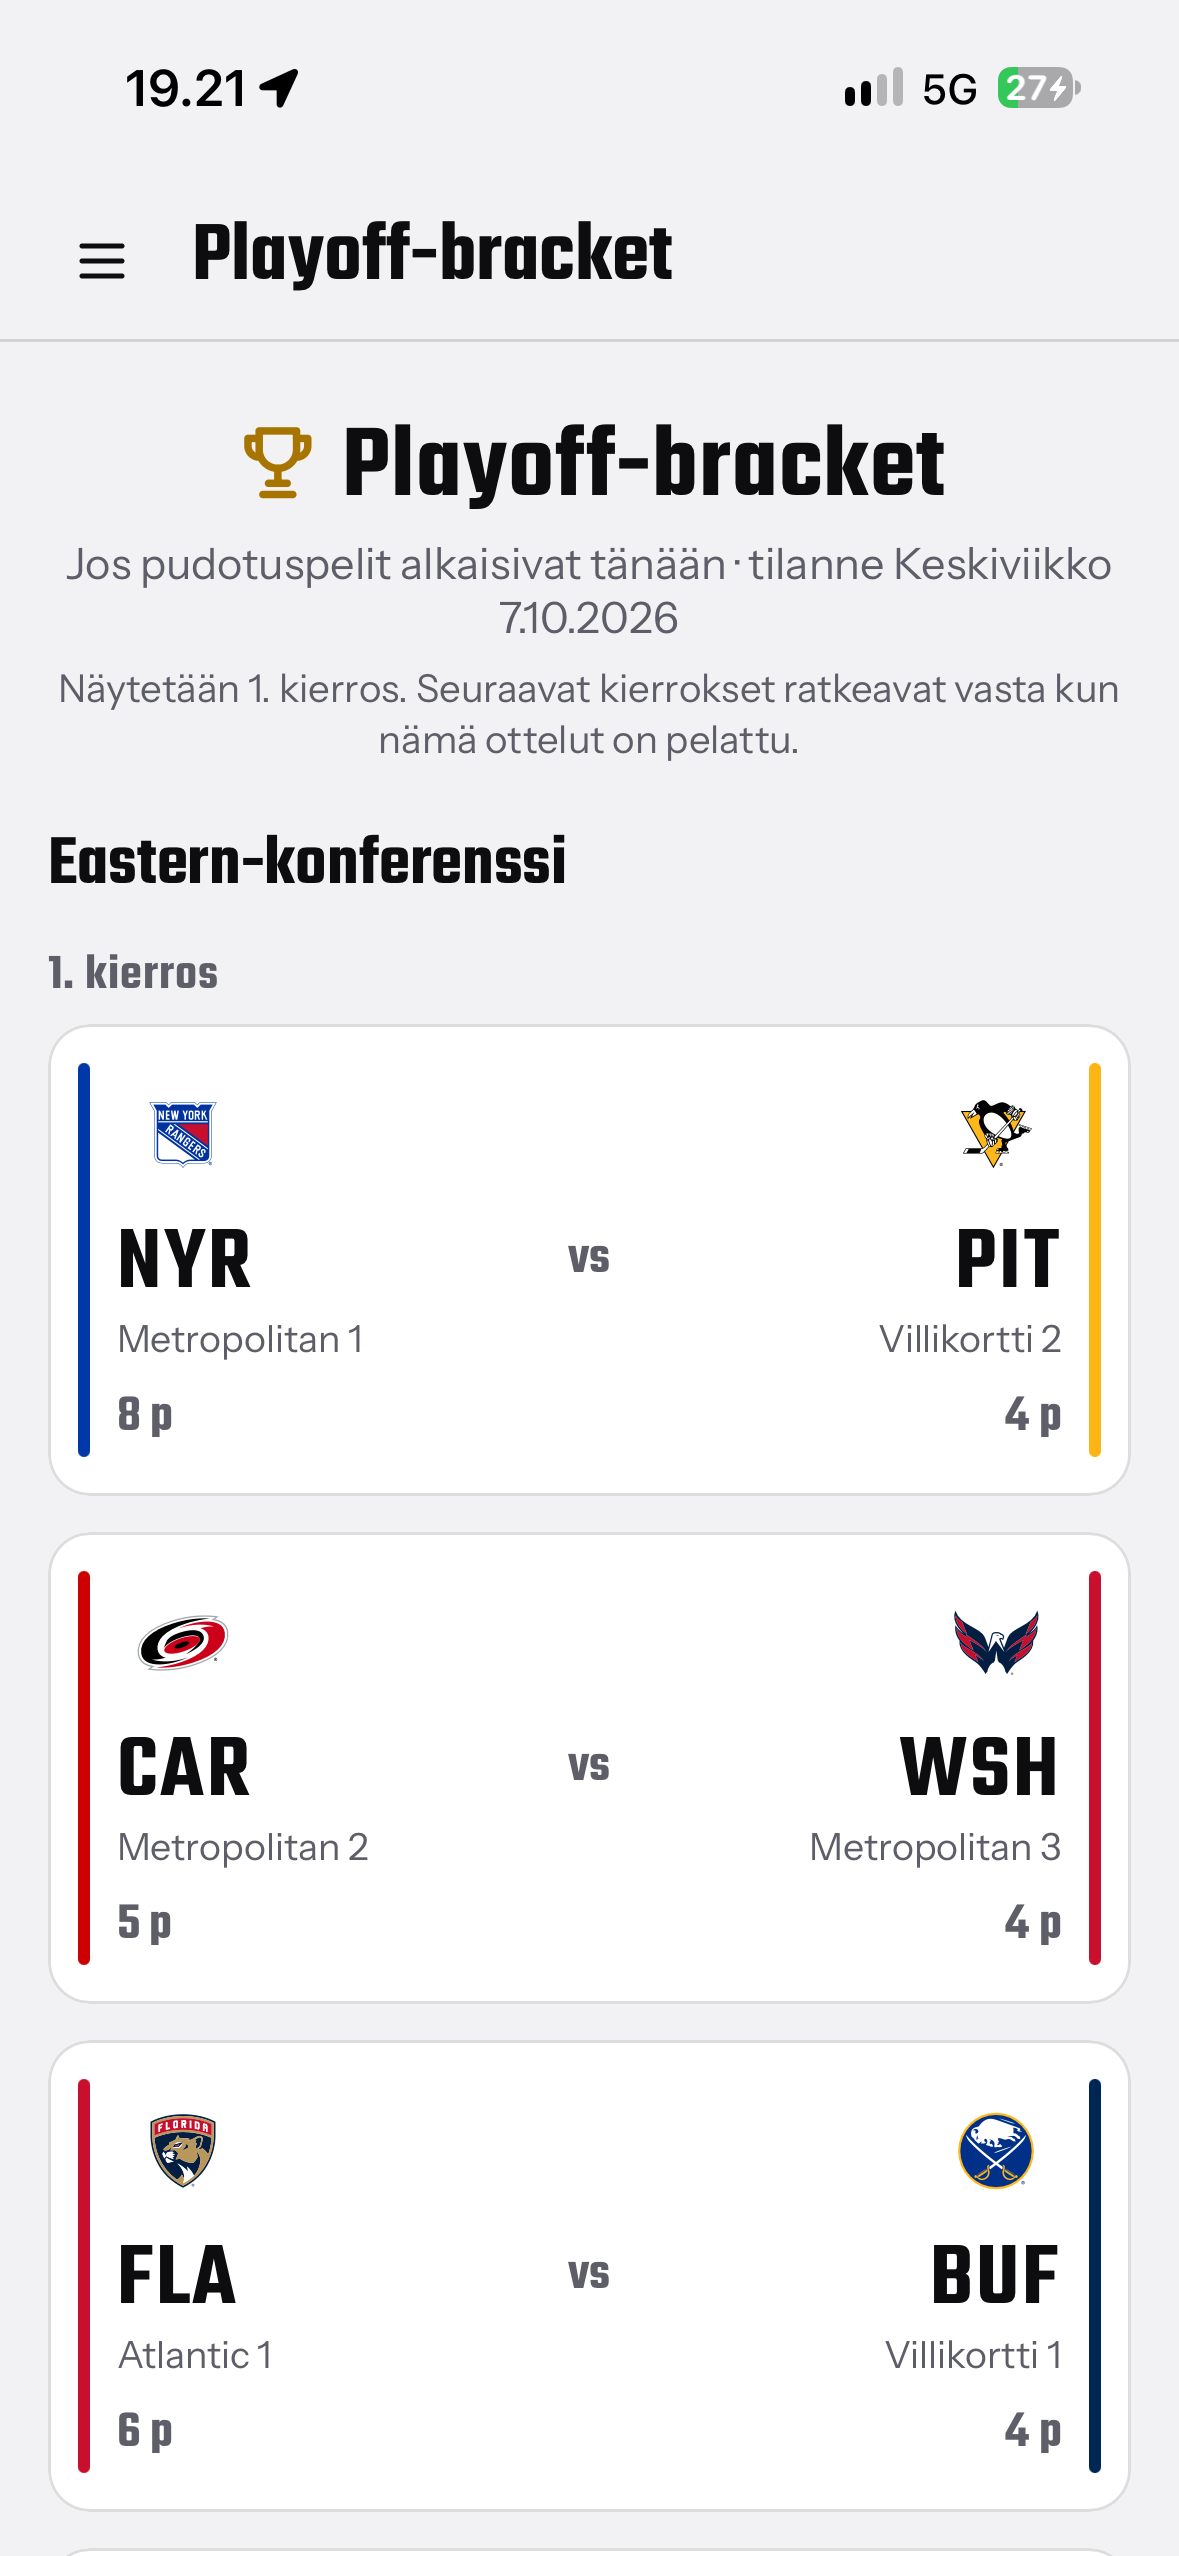
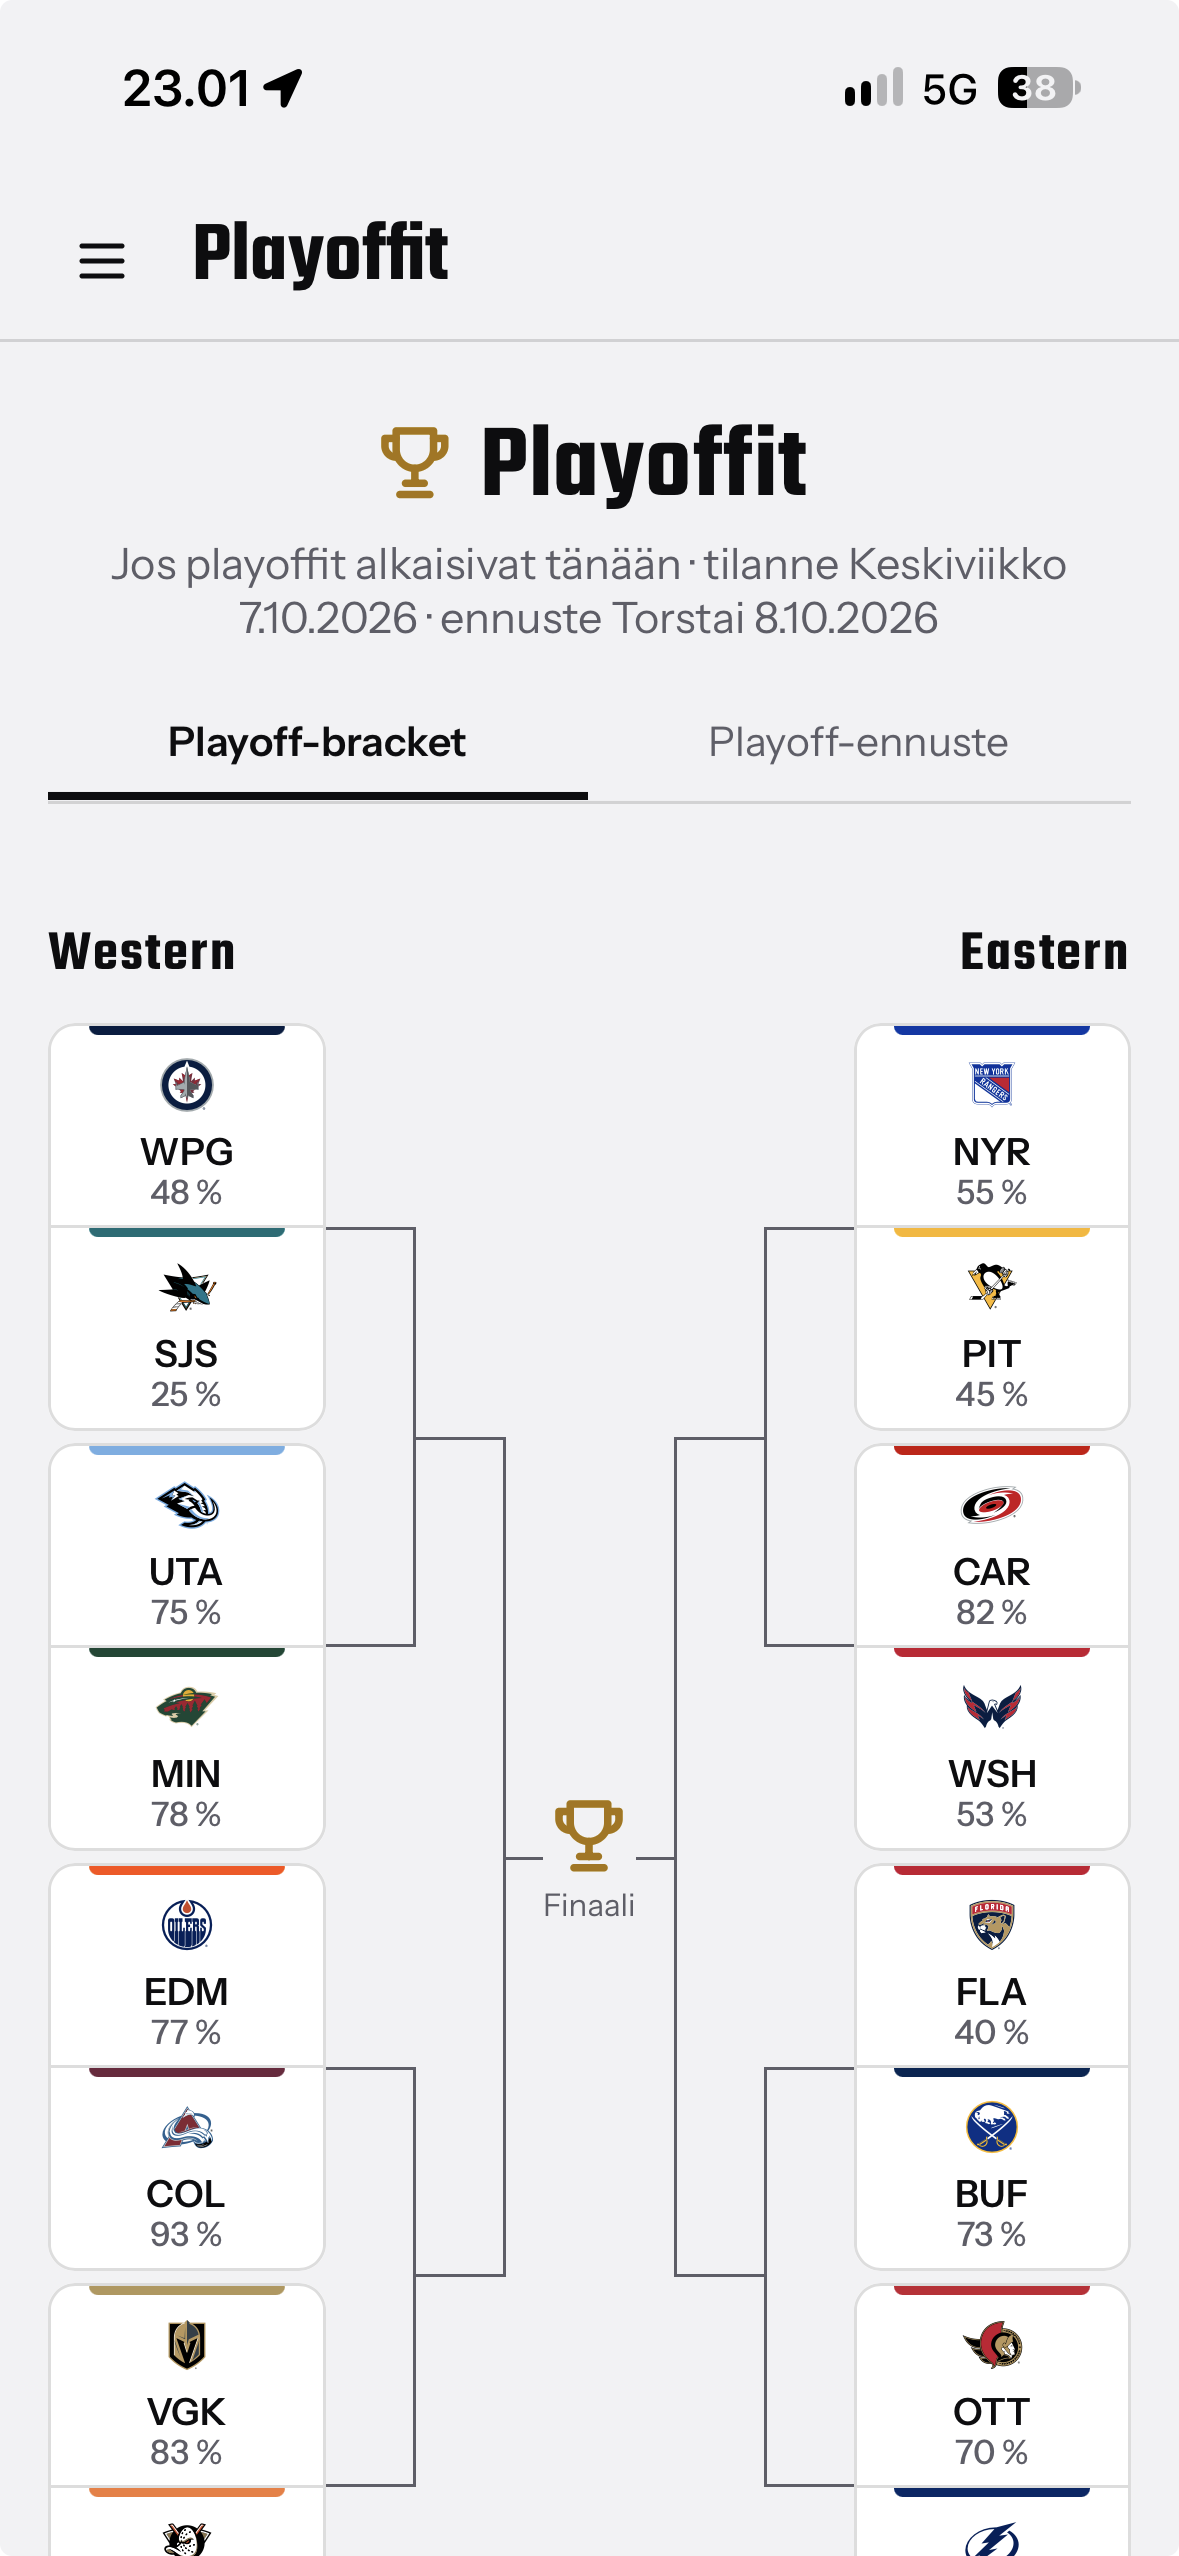
README: Playoffit section and new screenshot

diff --git a/README.md b/README.md
@@ -43,10 +43,12 @@ ottelujen form-taulukko (W/L/OTL, järjestys pistekeskiarvon mukaan).
 <img src="docs/screenshots/pisteporssi.png" alt="Pistepörssi" width="250"> <img src="docs/screenshots/suomiporssi.png" alt="Suomipörssi" width="250"> <img src="docs/screenshots/analytiikka.png" alt="Analytiikka" width="250"> <img src="docs/screenshots/edistyneet.png" alt="Edistyneet tilastot" width="250">
 
 ### Playoffit (`/playoffit`)
-Ensimmäisen kierroksen ottelupari johdettuna sarjataulukosta (divisioonien
-kärkikaksikot ja wild cardit).
+Playoff-kaavio (1. kierroksen parit johdettuna sarjataulukosta, joukkueen playoff-%), sarjatilanne
+(villikortti ja divisioonat, mukana playoff-% ja ennustetut pisteet xP) sekä **Playoff-ennuste**:
+piirakka playoff-todennäköisyyksistä liigan, konferenssien tai divisioonien mukaan. Ennuste on
+season-simulaatiosta (ks. [Playoff-ennuste](#playoff-ennuste)).
 
-<img src="docs/screenshots/playoffit.png" alt="Playoff-bracket" width="250">
+<img src="docs/screenshots/playoffit.png" alt="Playoffit" width="250">
 
 ### Pelit
 - `/otteluohjelma` seuraavat 8 päivää
@@ -297,5 +299,5 @@ jäljellä olevan runkosarjan 100 000 kertaa (`winprob/season.py`, ydin `winprob
 xGoalBoostin `simcore.py`:stä, pidä synkassa). Joukkuetilat tulevat samasta D1-historiasta kuin otteluennakossa,
 aikataulu ja tulokset 32 `club-schedule-season`-kutsulla (~1 min). Tulos: yksi rivi / joukkue / päivä
 (`season_sim`, historia säilytetään): playoff-, divisioona- ja Presidents' Trophy -todennäköisyys sekä odotetut
-loppupisteet (10–90 %). Playoffit-sivu näyttää viimeisimmän tilanteen ja selitysosion. Uusi taulu pitää ajaa
+loppupisteet (10–90 %). Playoffit-sivu näyttää viimeisimmän tilanteen (playoff-% kaaviossa, taulukoissa ja piirakoissa, xP taulukoissa) ja selitysosion. Divisioona- ja Presidents' Trophy -todennäköisyydet ja pisteväli tallennetaan, mutta sivu ei näytä niitä. Uusi taulu pitää ajaa
 D1:een käsin (`d1/schema.sql`, `CREATE TABLE season_sim`). Playoff-sarjoja ja Cupia ei simuloida.
